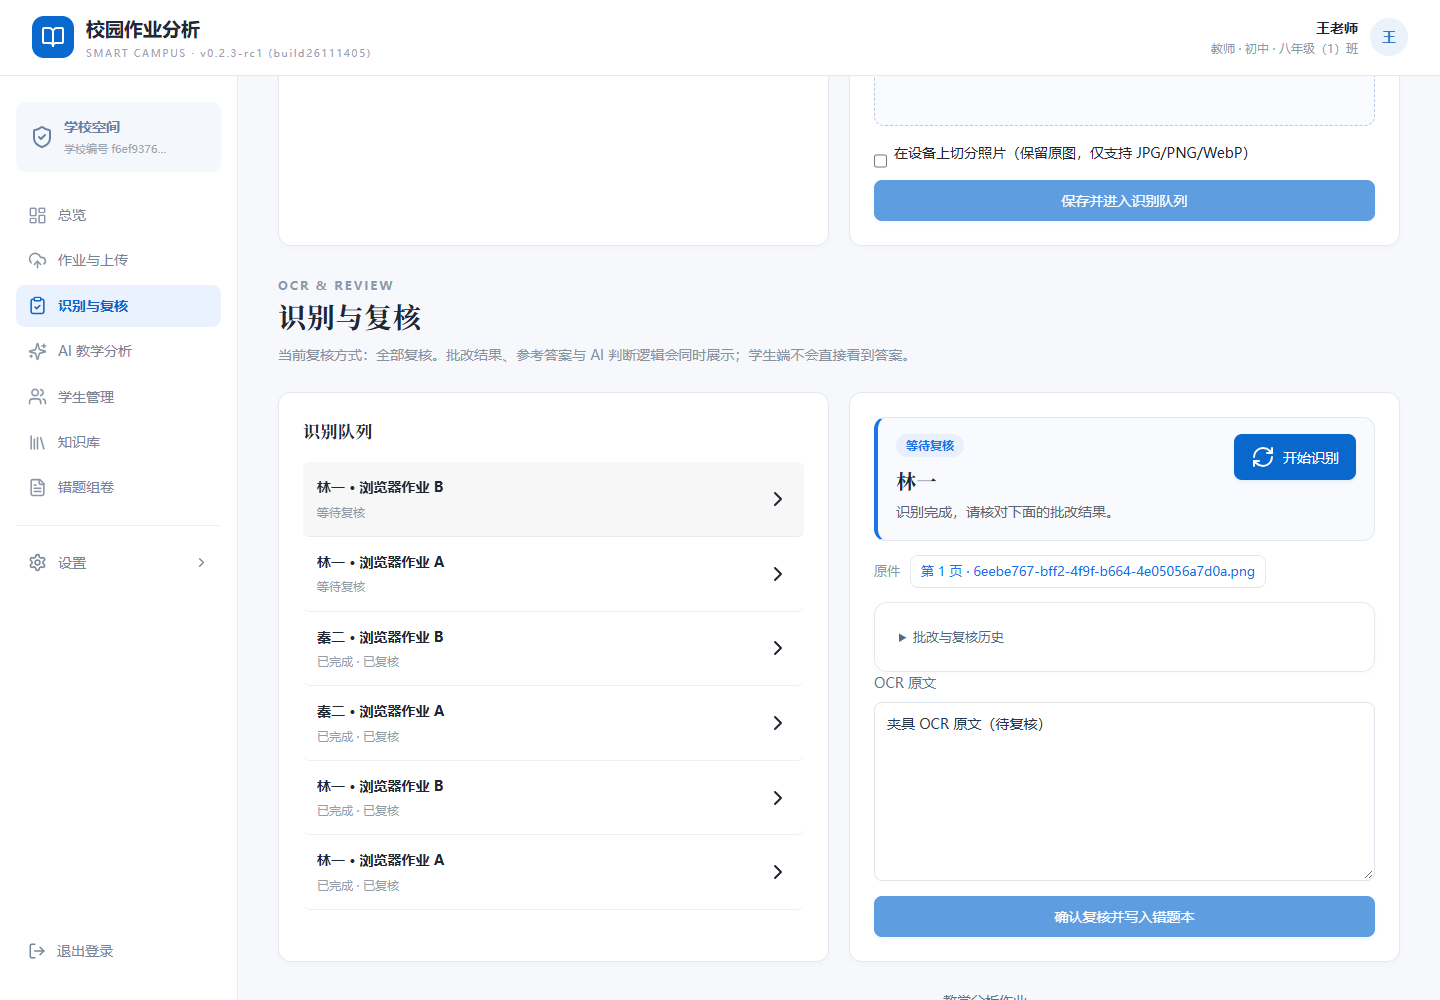
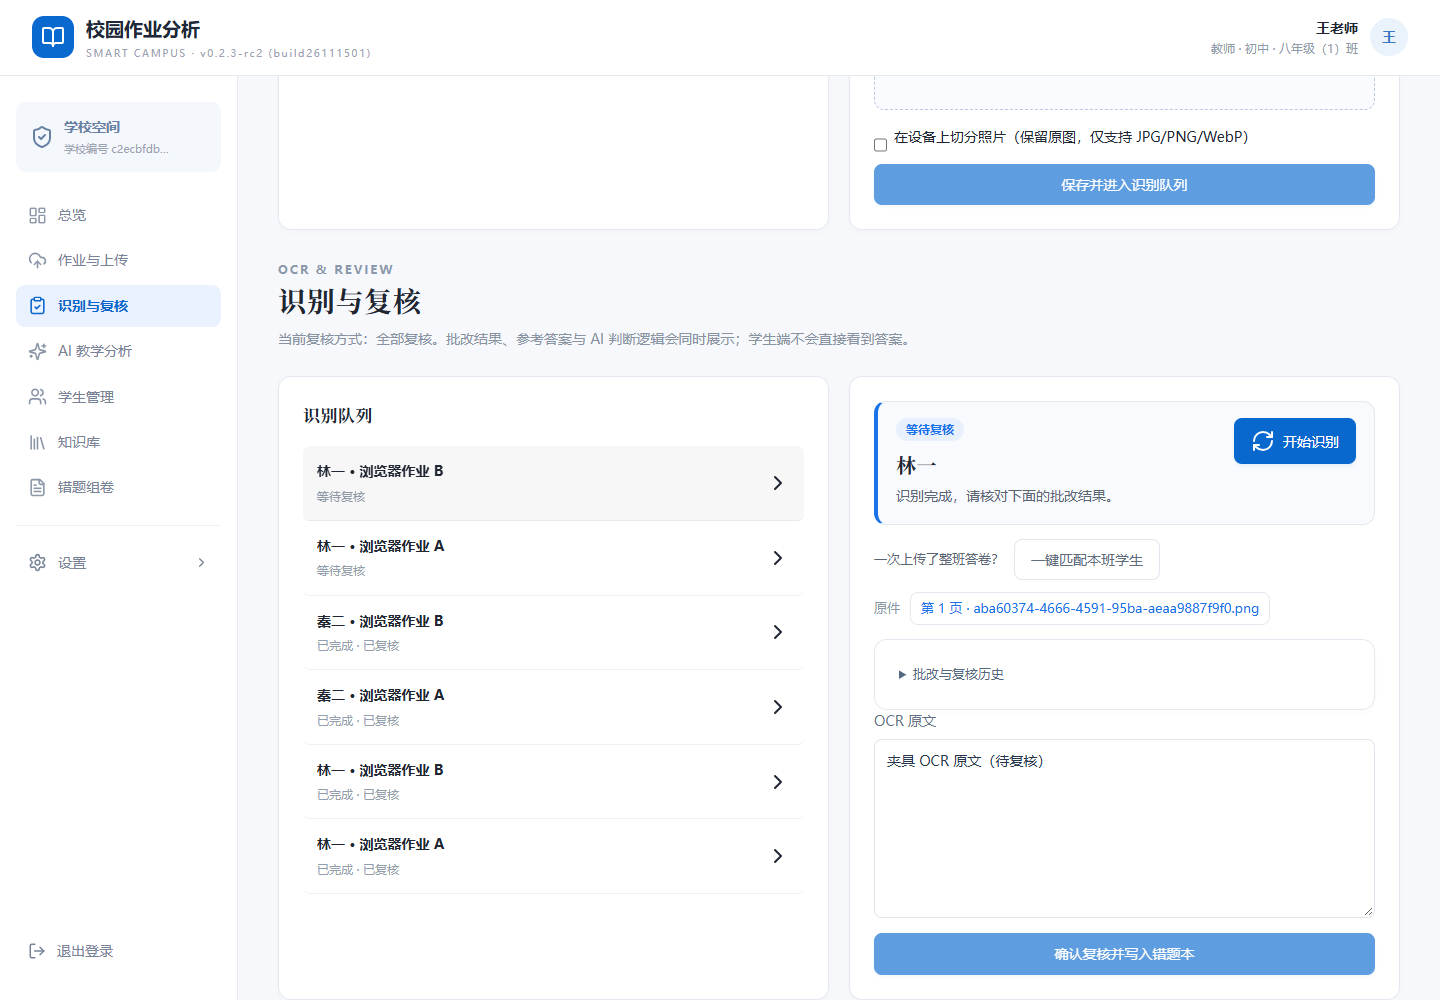
fix(review): let the status strip use the full width
justify-content: space-between without flex-grow let the text column
collapse to its minimum, so the status sentence wrapped one character per
line next to the button. The text now grows and the button keeps its
size, and the duplicated 上次后台识别未完成 line is gone, leaving only the
actual error detail.

diff --git a/src/main.tsx b/src/main.tsx
@@ -2303,18 +2303,10 @@ function Review({
                   {detail.assignment_description}
                 </p>
               )}
-              {detail.recognitionJob &&
-                (["queued", "recognizing", "failed"].includes(detail.status) ||
-                  detail.recognitionJob.status === "failed") && (
-                  <p role="status">
-                    {detail.recognitionJob.status === "failed"
-                      ? "上次后台识别未完成。"
-                      : detail.status === "queued"
-                        ? "已排队，系统会自动处理。"
-                        : statusName(detail.status)}
-                    {` 已尝试 ${detail.recognitionJob.attempts} 次。`}
-                    {detail.recognitionJob.error &&
-                      ` ${detail.recognitionJob.error}`}
+              {detail.recognitionJob?.status === "failed" &&
+                detail.recognitionJob.error && (
+                  <p className="review-note">
+                    识别详情：{detail.recognitionJob.error}
                   </p>
                 )}
               {detail.files?.length > 0 && (

diff --git a/src/styles.css b/src/styles.css
@@ -2599,7 +2599,6 @@ footer {
 .review-status {
   display: flex;
   align-items: flex-start;
-  justify-content: space-between;
   gap: 16px;
   margin-bottom: 14px;
   padding: 16px 18px;
@@ -2632,6 +2631,14 @@ footer {
 .review-status[data-state="failed"] .review-badge {
   background: #fdeaea;
   color: #d64545;
+}
+.review-status > div {
+  flex: 1 1 auto;
+  min-width: 0;
+}
+.review-status > button {
+  flex: 0 0 auto;
+  white-space: nowrap;
 }
 .review-status h2 {
   margin: 8px 0 4px;
